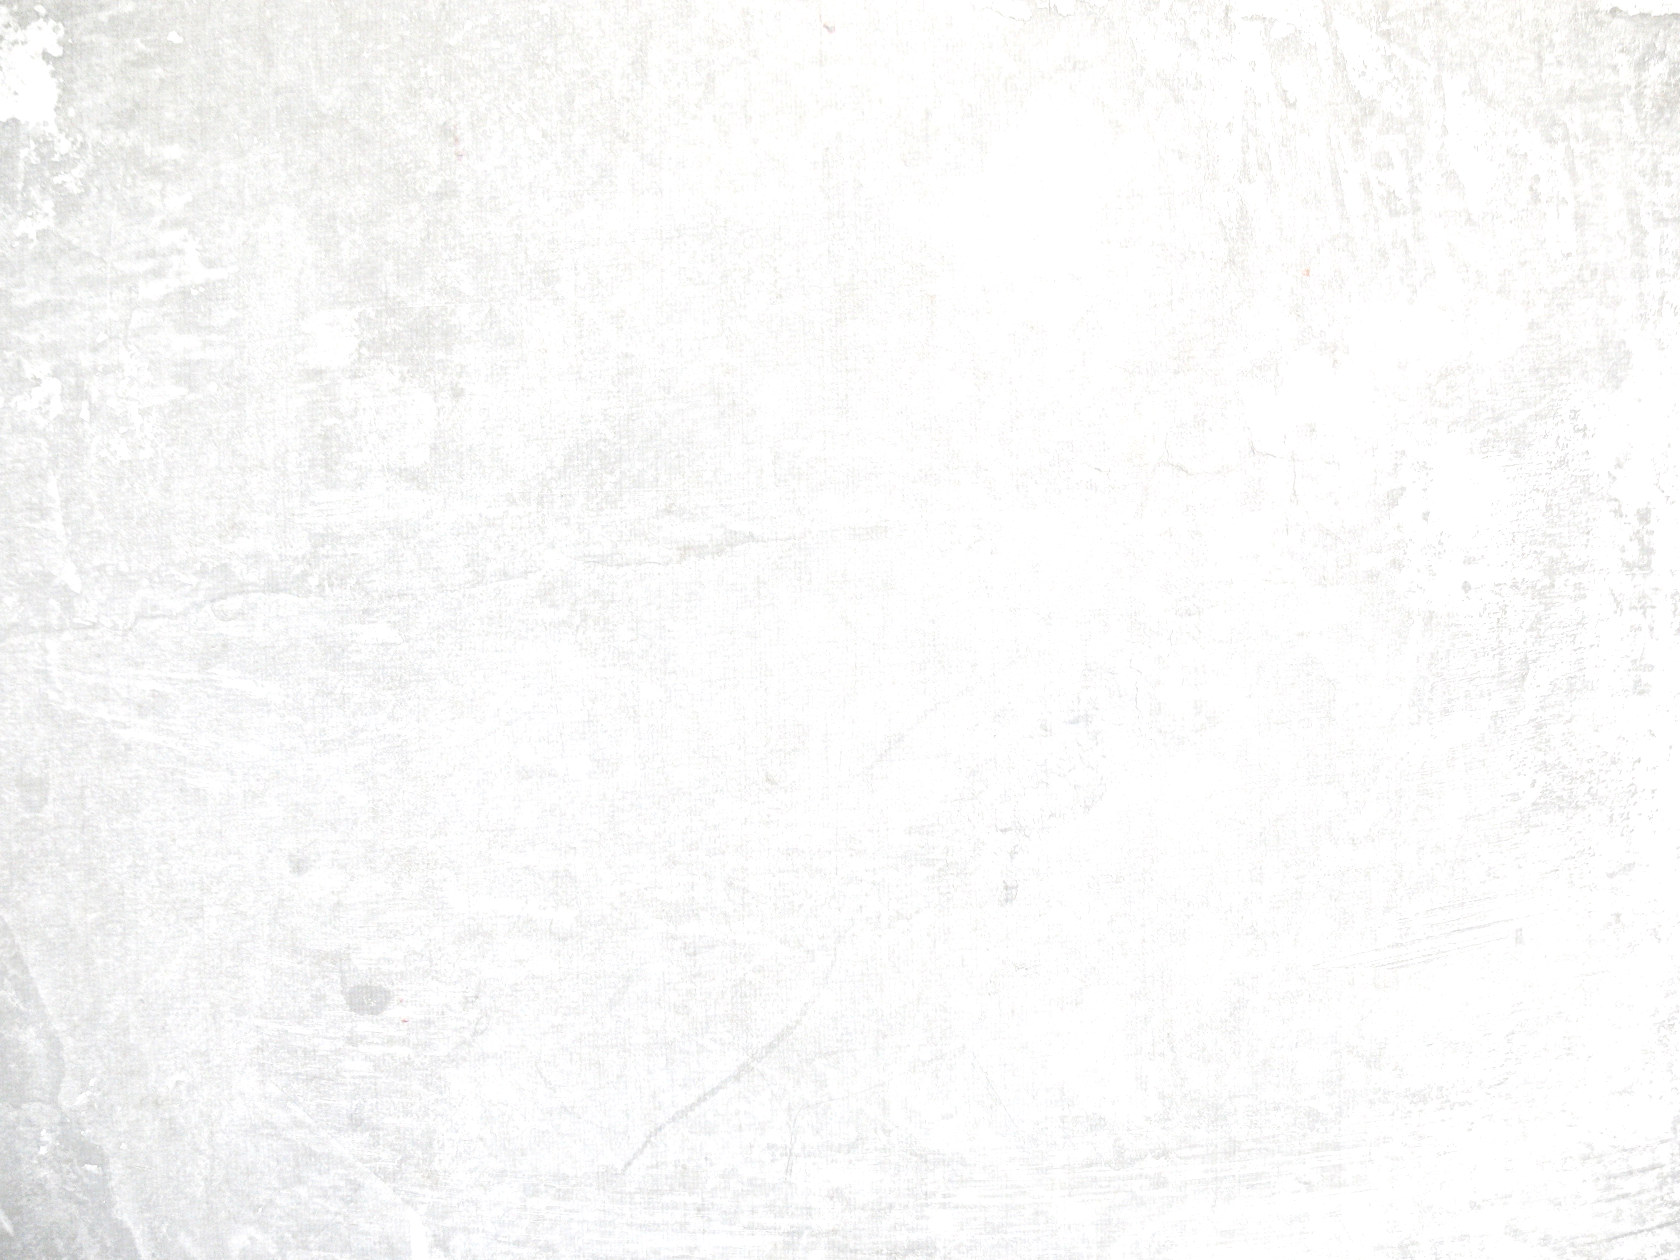
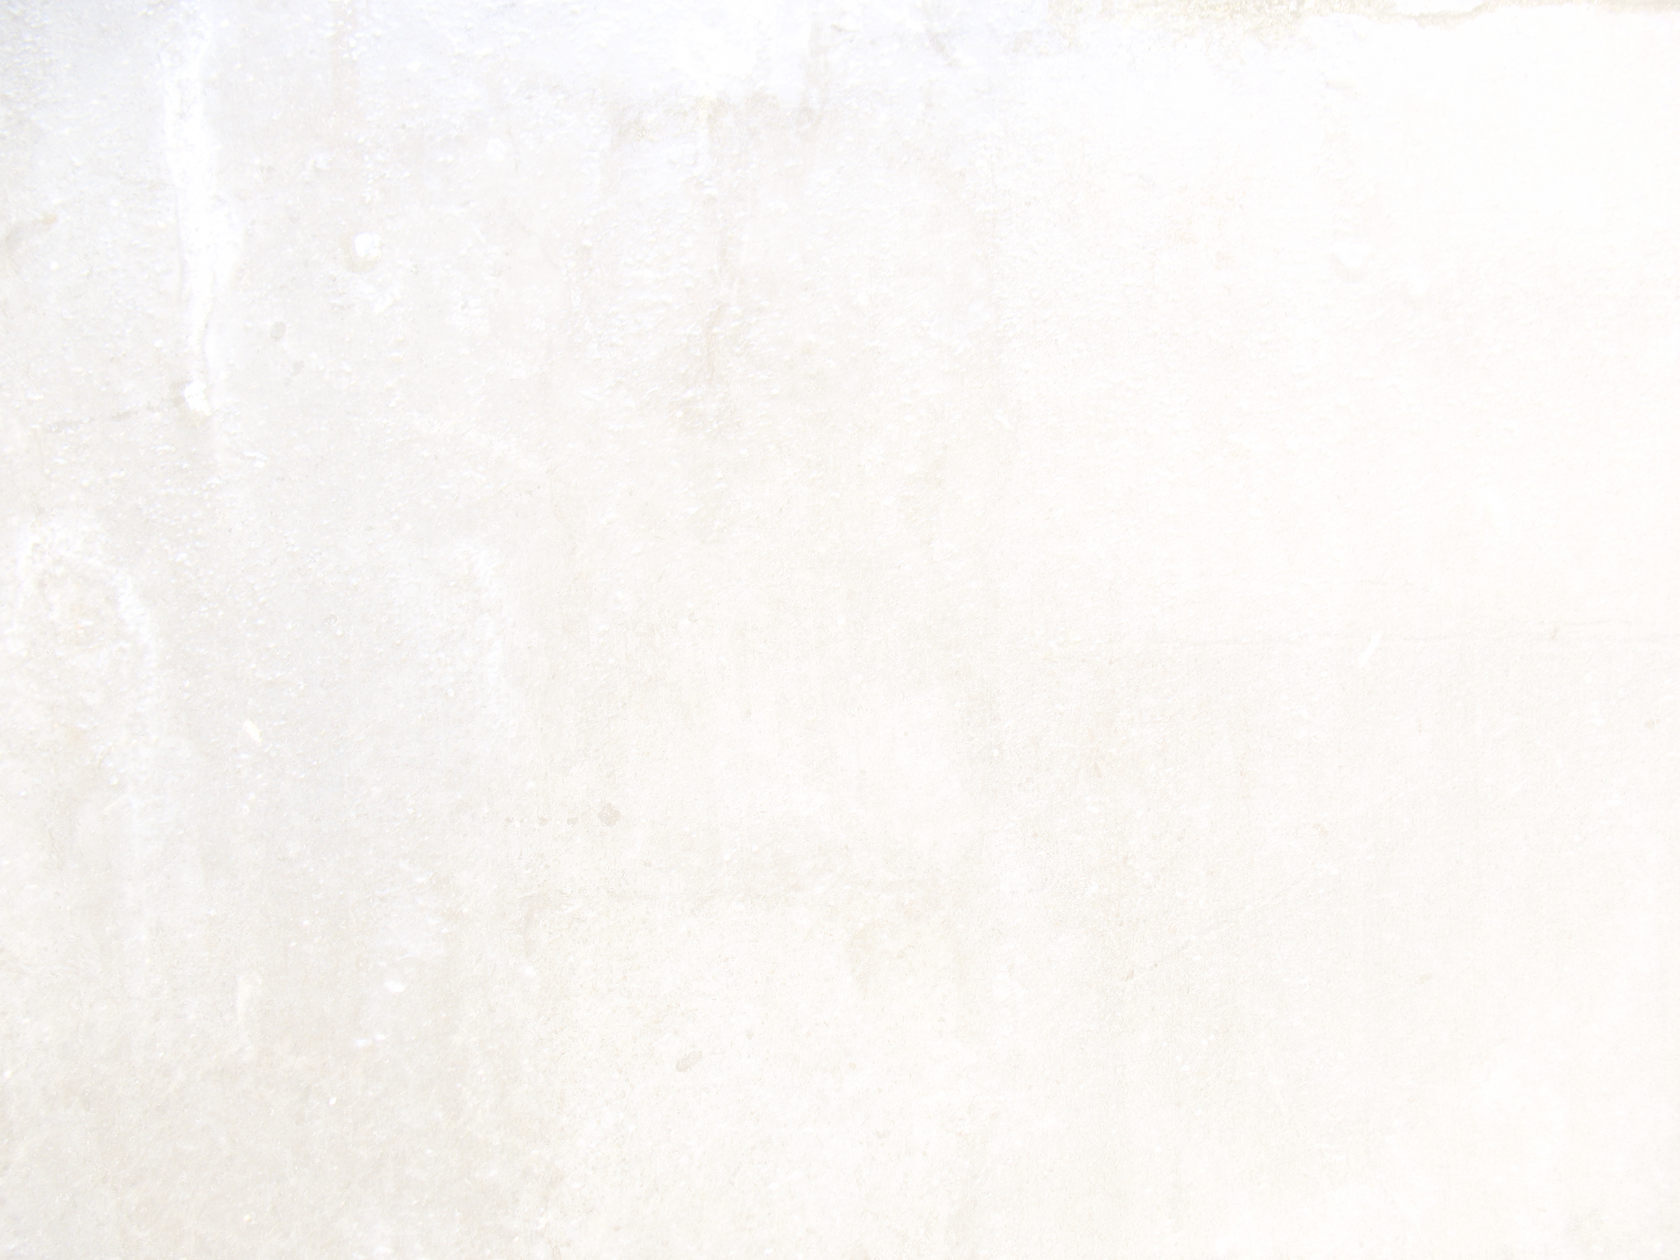
modify: background

diff --git a/app/assets/stylesheets/structures.css.sass b/app/assets/stylesheets/structures.css.sass
@@ -5,11 +5,11 @@ body
     padding-top: 30px
 
 .hero-unit
-  background-color: #eee
-  background-color: rgba(238, 238, 238, 0.5)
+  // background-color: #eee
+  // background-color: rgba(238, 238, 238, 0.85)
   h1
     margin-bottom: 20px
 .form-actions
-  background-color: #f5f5f5
-  background-color: rgba(245, 245, 245, 0.5)
+  // background-color: #f5f5f5
+  // background-color: rgba(245, 245, 245, 0.85)
 

diff --git a/app/assets/stylesheets/application.css.sass b/app/assets/stylesheets/application.css.sass
@@ -25,6 +25,8 @@ ul#validators
     margin: 0 0 30px
     list-style: none
     iframe
+      border-width: 1px
+      background: #fff
       display: block
       width: 100%
       height: 480px
